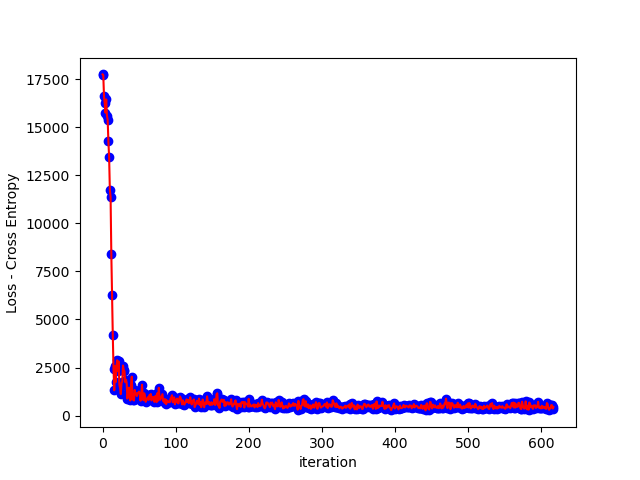
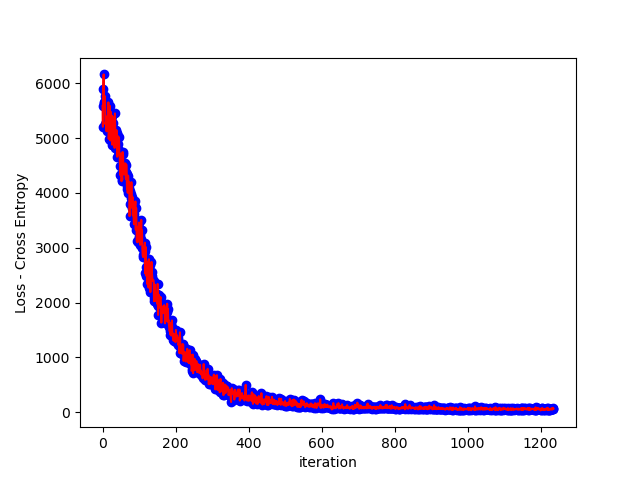
model

diff --git a/train.py b/train.py
@@ -9,24 +9,38 @@ import torch.nn as nn
 import matplotlib.pyplot as plt
 from gui import GUI
 
+def unfreeze_conv5_x(model):
+    # Freeze all parameters first
+    for param in model.parameters():
+        param.requires_grad = False
 
-def main(num_training, num_epochs, batch_size, learning_rate, weight_decay):
+    # Unfreeze the layers in conv5_x
+    for param in model.layer4.parameters():  # layer4 is conv5_x in ResNet-50
+        param.requires_grad = True
+
+    # Optionally, unfreeze the fully connected layer as well
+    for param in model.fc.parameters():
+        param.requires_grad = True
+
+#def main(num_training, num_epochs, batch_size, learning_rate, weight_decay):
+def main():
     torch.manual_seed(1)
     device = torch.device('cuda' if torch.cuda.is_available() else 'cpu')
     print(device)
     # Load the pre-trained ResNet50 model
     model = models.resnet50(weights='ResNet50_Weights.DEFAULT').to(device)
+    # Unfreeze the last block of the ResNet50 model
+    
     num_ftrs = model.fc.in_features
     model.fc = final_model(num_ftrs, 2).to(device)
-
+    unfreeze_conv5_x(model)
     transform = transforms.Compose([
         transforms.Resize((256, 256)),
         transforms.ToTensor(),
         transforms.Normalize(mean=[0.485, 0.456, 0.406], std=[0.229, 0.224, 0.225])
     ])
 
-    #dataset = LandmarkDataset(img_dir='Data', transform=transform)
-    #dataloader = DataLoader(dataset, batch_size=1, shuffle=True)
+
     dataset = LandmarkDataset(img_dir='Data', transform=transform)
     train_set_val = int(0.8 * len(dataset))
     test_set_val = len(dataset) - train_set_val
@@ -34,15 +48,18 @@ def main(num_training, num_epochs, batch_size, learning_rate, weight_decay):
     dataloader = DataLoader(train_set, batch_size=50, shuffle=True)
     test_loader = DataLoader(test_set, batch_size=1, shuffle=False)
 
-    loss_fn = CustomGeoMSELoss()
-    optimizer = torch.optim.Adam(model.fc.parameters(), lr=0.001, weight_decay=1e-6)
+    loss_fn = nn.MSELoss()
+    optimizer = torch.optim.Adam([
+        {'params': model.layer4.parameters(), 'lr': 1e-4},
+        {'params': model.fc.parameters(), 'lr': 1e-4}
+        ], lr=1e-5, weight_decay=1e-5)
     iteration = 0
     plt_loss = [] 
     plt.xlabel('iteration')
     plt.ylabel('Loss - Cross Entropy')
     iteration = 0
     
-    for epoch in range(2):
+    for epoch in range(4):
         for images, labels in dataloader:
             optimizer.zero_grad()
             outputs = model(images)
@@ -79,10 +96,6 @@ def main(num_training, num_epochs, batch_size, learning_rate, weight_decay):
             outputs = model(images)
             outputs = outputs.to(device)
 
-            
-
-            # print(outputs[0].tolist())
-            # print(true_label[0].tolist())
 
             output_val = outputs[0].tolist()
             true_val = true_label[0].tolist()
@@ -101,5 +114,6 @@ def main(num_training, num_epochs, batch_size, learning_rate, weight_decay):
     gui.show(display_coords=False, show_boxes=True)
 
     print(total_loss/len(test_loader))
+
 if __name__ == '__main__':
     main()

diff --git a/model.py b/model.py
@@ -4,22 +4,10 @@ import torch
 class final_model(nn.Module):
     def __init__(self, in_features: int, out_features: int):
         super(final_model, self).__init__()
-        self.fc1 = nn.Linear(in_features=in_features, out_features=1024)
-        self.fc2 = nn.Linear(in_features=1024, out_features=512)
-        self.fc3 = nn.Linear(in_features=512, out_features=128)
-        self.fc4 = nn.Linear(in_features=128, out_features=32)
-        self.fc5 = nn.Linear(in_features=32, out_features=2)
+        self.fc = nn.Linear(in_features, 2)
 
     def forward(self, x):
-        x1 = self.fc1(x)
-        x1 = nn.functional.relu(x1)
-        x1 = self.fc2(x1)
-        x1 = nn.functional.relu(x1)
-        x1 = self.fc3(x1)
-        x1 = nn.functional.relu(x1)
-        x1 = self.fc4(x1)
-        x1 = nn.functional.relu(x1)
-        x1 = self.fc5(x1)
+        x1 = self.fc(x)
         return x1
     
     
@@ -33,24 +21,19 @@ class CustomGeoMSELoss(nn.Module):
         pred_lon, pred_lat = predictions[:, 0], predictions[:, 1]
         true_lon, true_lat = targets[:, 0], targets[:, 1]
 
-        # Calculate base MSE loss for both longitude and latitude
         loss_lon = (pred_lon - true_lon) ** 2
         loss_lat = (pred_lat - true_lat) ** 2
 
-        # Initialize penalty mask for longitude
         penalty_mask_lon = torch.zeros_like(pred_lon)
         # Apply penalties for specific longitude conditions
         penalty_mask_lon[(pred_lon < -90) | (true_lon < 75)] = 1.0
         
         # Initialize penalty mask for latitude
         penalty_mask_lat = torch.zeros_like(pred_lat)
-        # Apply penalties for specific latitude conditions
         penalty_mask_lat[(true_lat > 40)] = 1.0
 
-        # Calculate the penalized loss
         penalized_loss_lon = loss_lon * (1 + penalty_mask_lon * (self.penalty - 1))
         penalized_loss_lat = loss_lat * (1 + penalty_mask_lat * (self.penalty - 1))
 
-        # Return the mean of the combined penalized losses
         return (penalized_loss_lon.mean() + penalized_loss_lat.mean()) / 2
 
